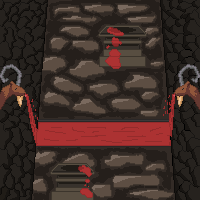
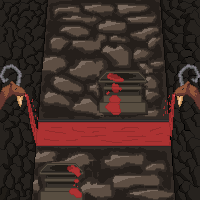
boss et carte
fonction boss pour le blob pour qu'il puisse changer de sprite et de stats
Rajout de cartes et d'un mob

diff --git a/sources/fonctions_boss.py b/sources/fonctions_boss.py
@@ -9,6 +9,33 @@ class BossInterfaceMethodes:
     # default_factory est appelé et sa valeur de retour va initialiser l'attribut
     attributs_supplementaires : dict[str, Any] = field(default_factory=lambda: {})
 
+
+def roi_blob_nouveau_tour(monstre: Monstre, attributs: dict[str, Any]) -> None:
+    if "sprite physique" not in attributs.keys():
+        sprite_physique = pygame.image.load("data/img/boss/Roi blob ph.png").convert_alpha()
+        sprite_magie = pygame.image.load("data/img/boss/Roi blob mg.png").convert_alpha()
+
+        w, h = sprite_physique.get_size()
+        facteur = 6
+        attributs["sprite physique"] = pygame.transform.scale(sprite_physique, (int(w * facteur), int(h * facteur)))
+
+        w, h = sprite_magie.get_size()
+        attributs["sprite magie"] = pygame.transform.scale(sprite_magie, (int(w * facteur), int(h * facteur)))
+    
+    if Jeu.nb_tours_combat % 3 == 0:
+        monstre._stats.defense_magique = 50
+        monstre._stats.defense = 25
+        monstre._stats.magie = 30
+        monstre._stats.force = 50
+        monstre._sprite = attributs["sprite physique"]
+    else :
+        monstre._stats.defense_magique = 25
+        monstre._stats.defense = 50
+        monstre._stats.magie = 50
+        monstre._stats.force = 30
+        monstre._sprite = attributs["sprite magie"]
+
+
 callbacks : dict[str, BossInterfaceMethodes] = {
-    "Roi Blob": BossInterfaceMethodes(),
+    "Roi Blob": BossInterfaceMethodes(roi_blob_nouveau_tour),
 }
